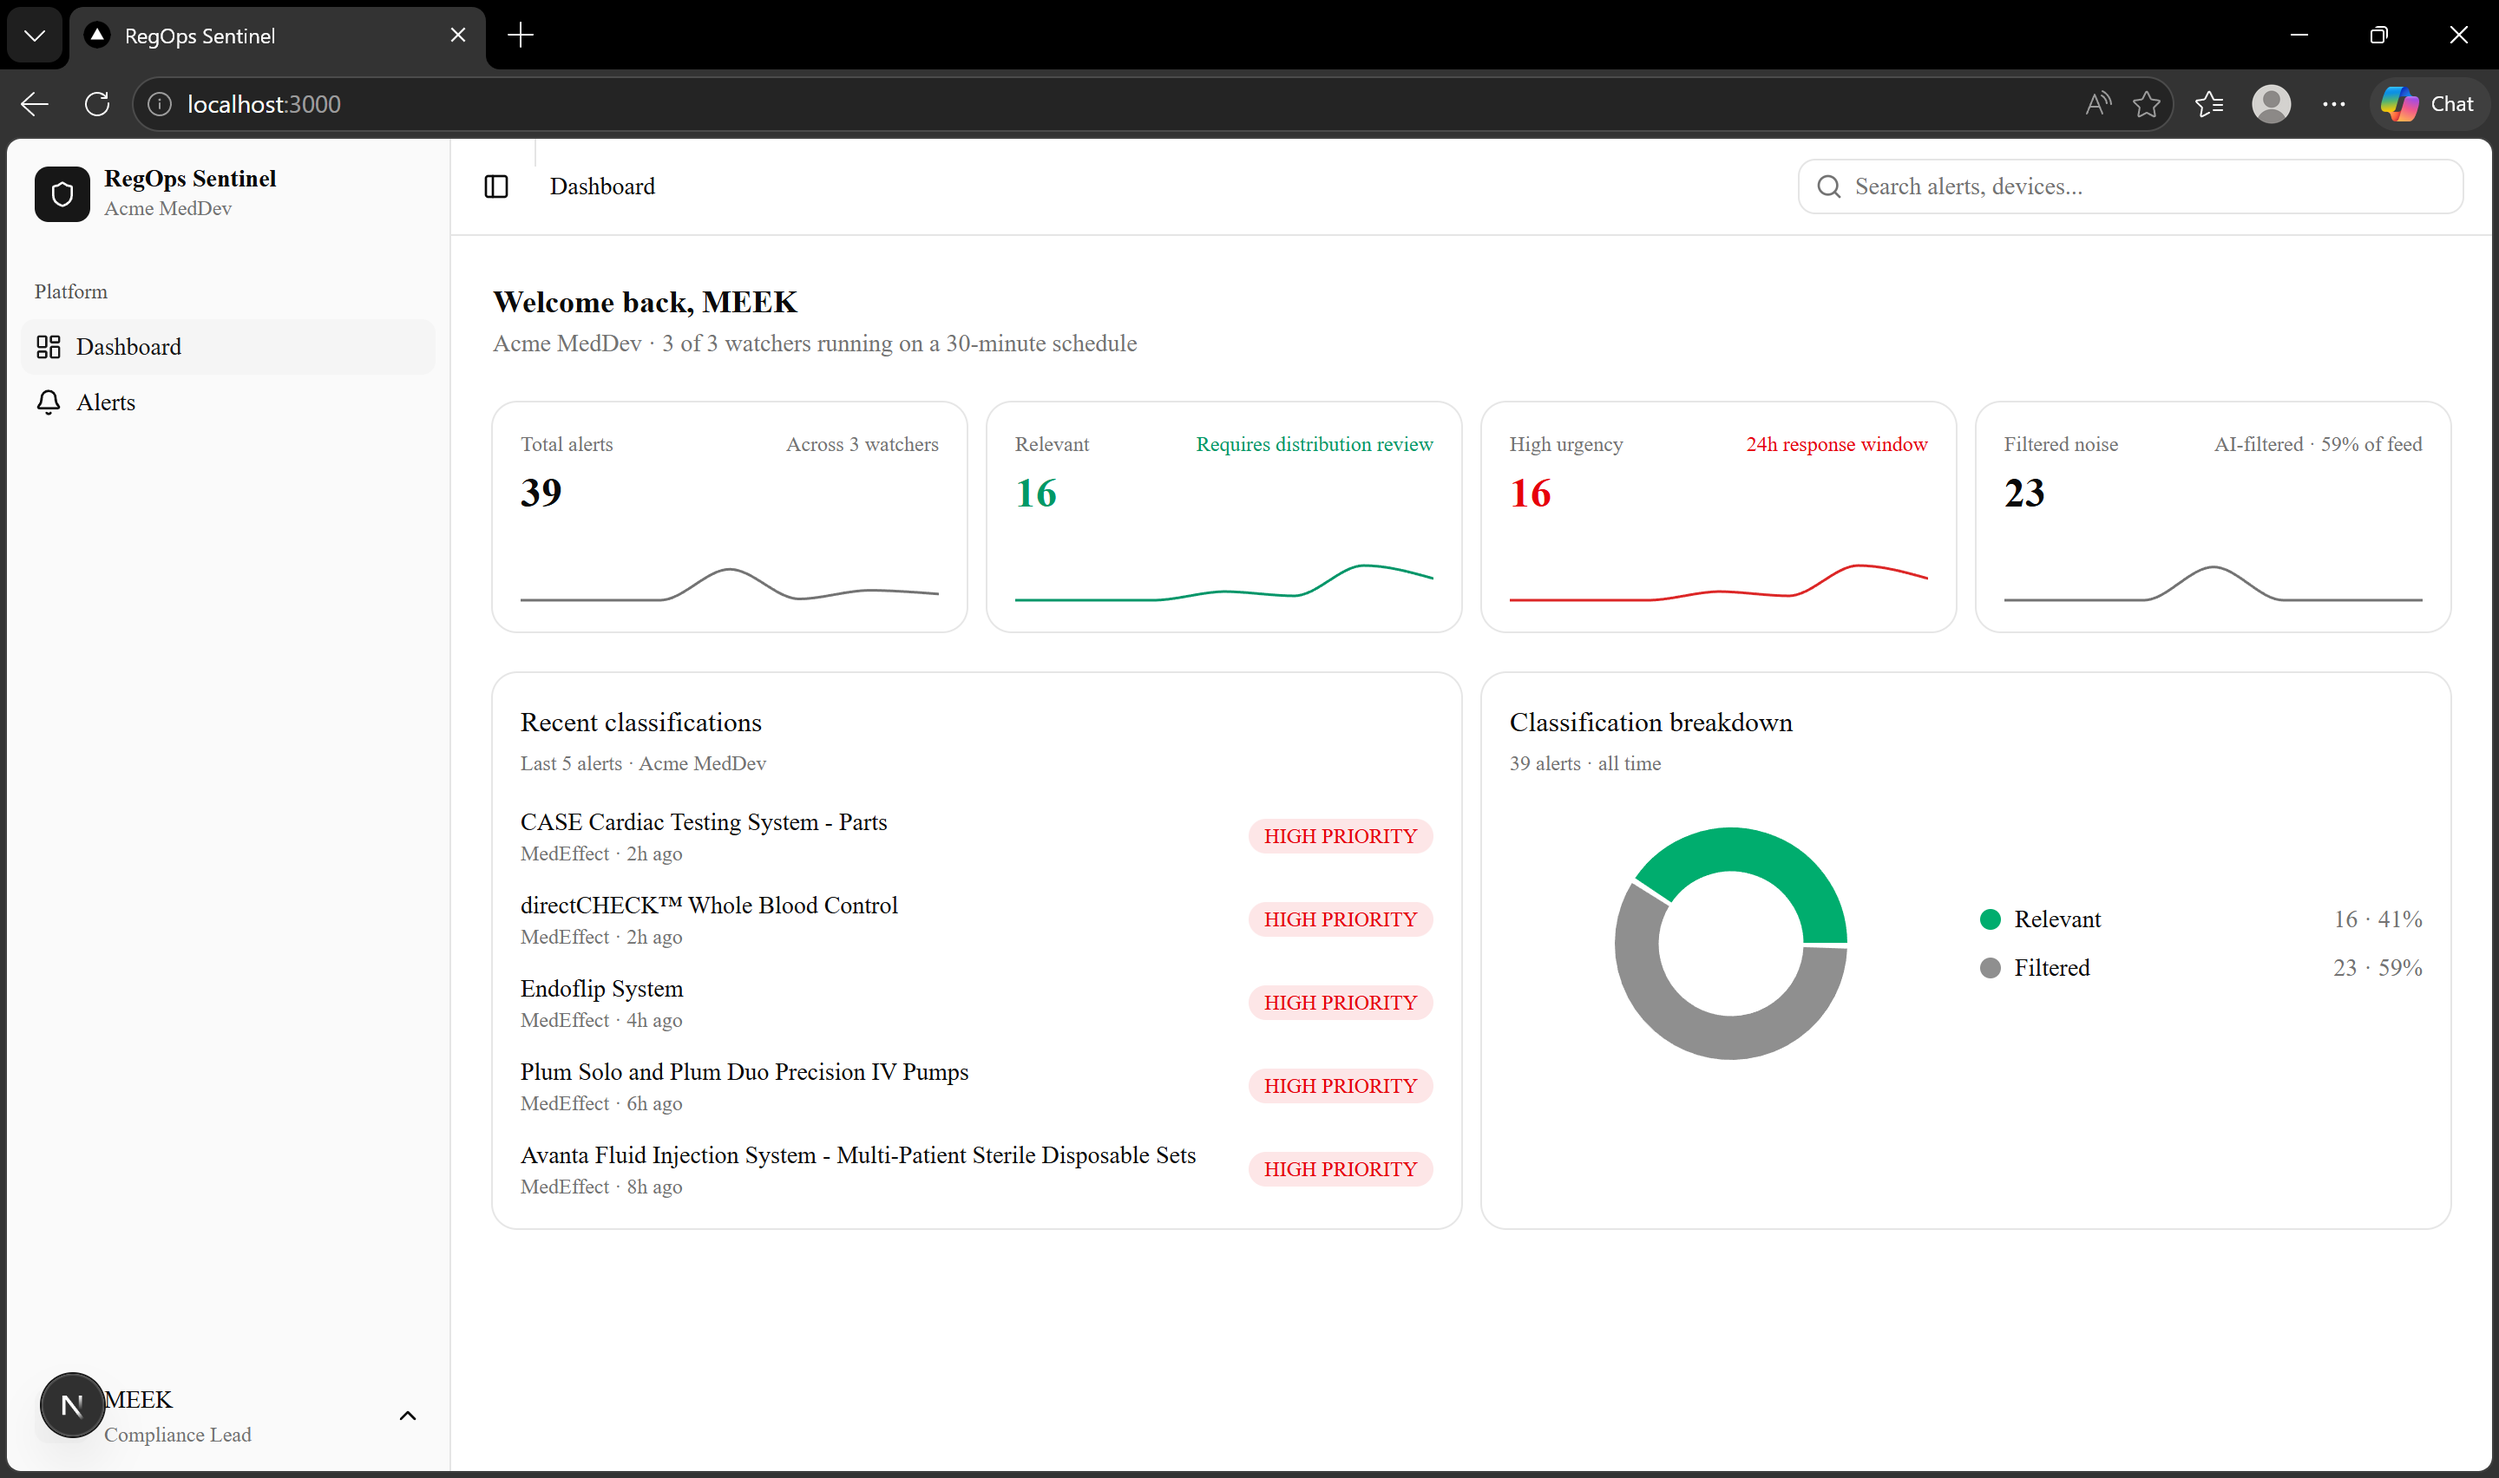
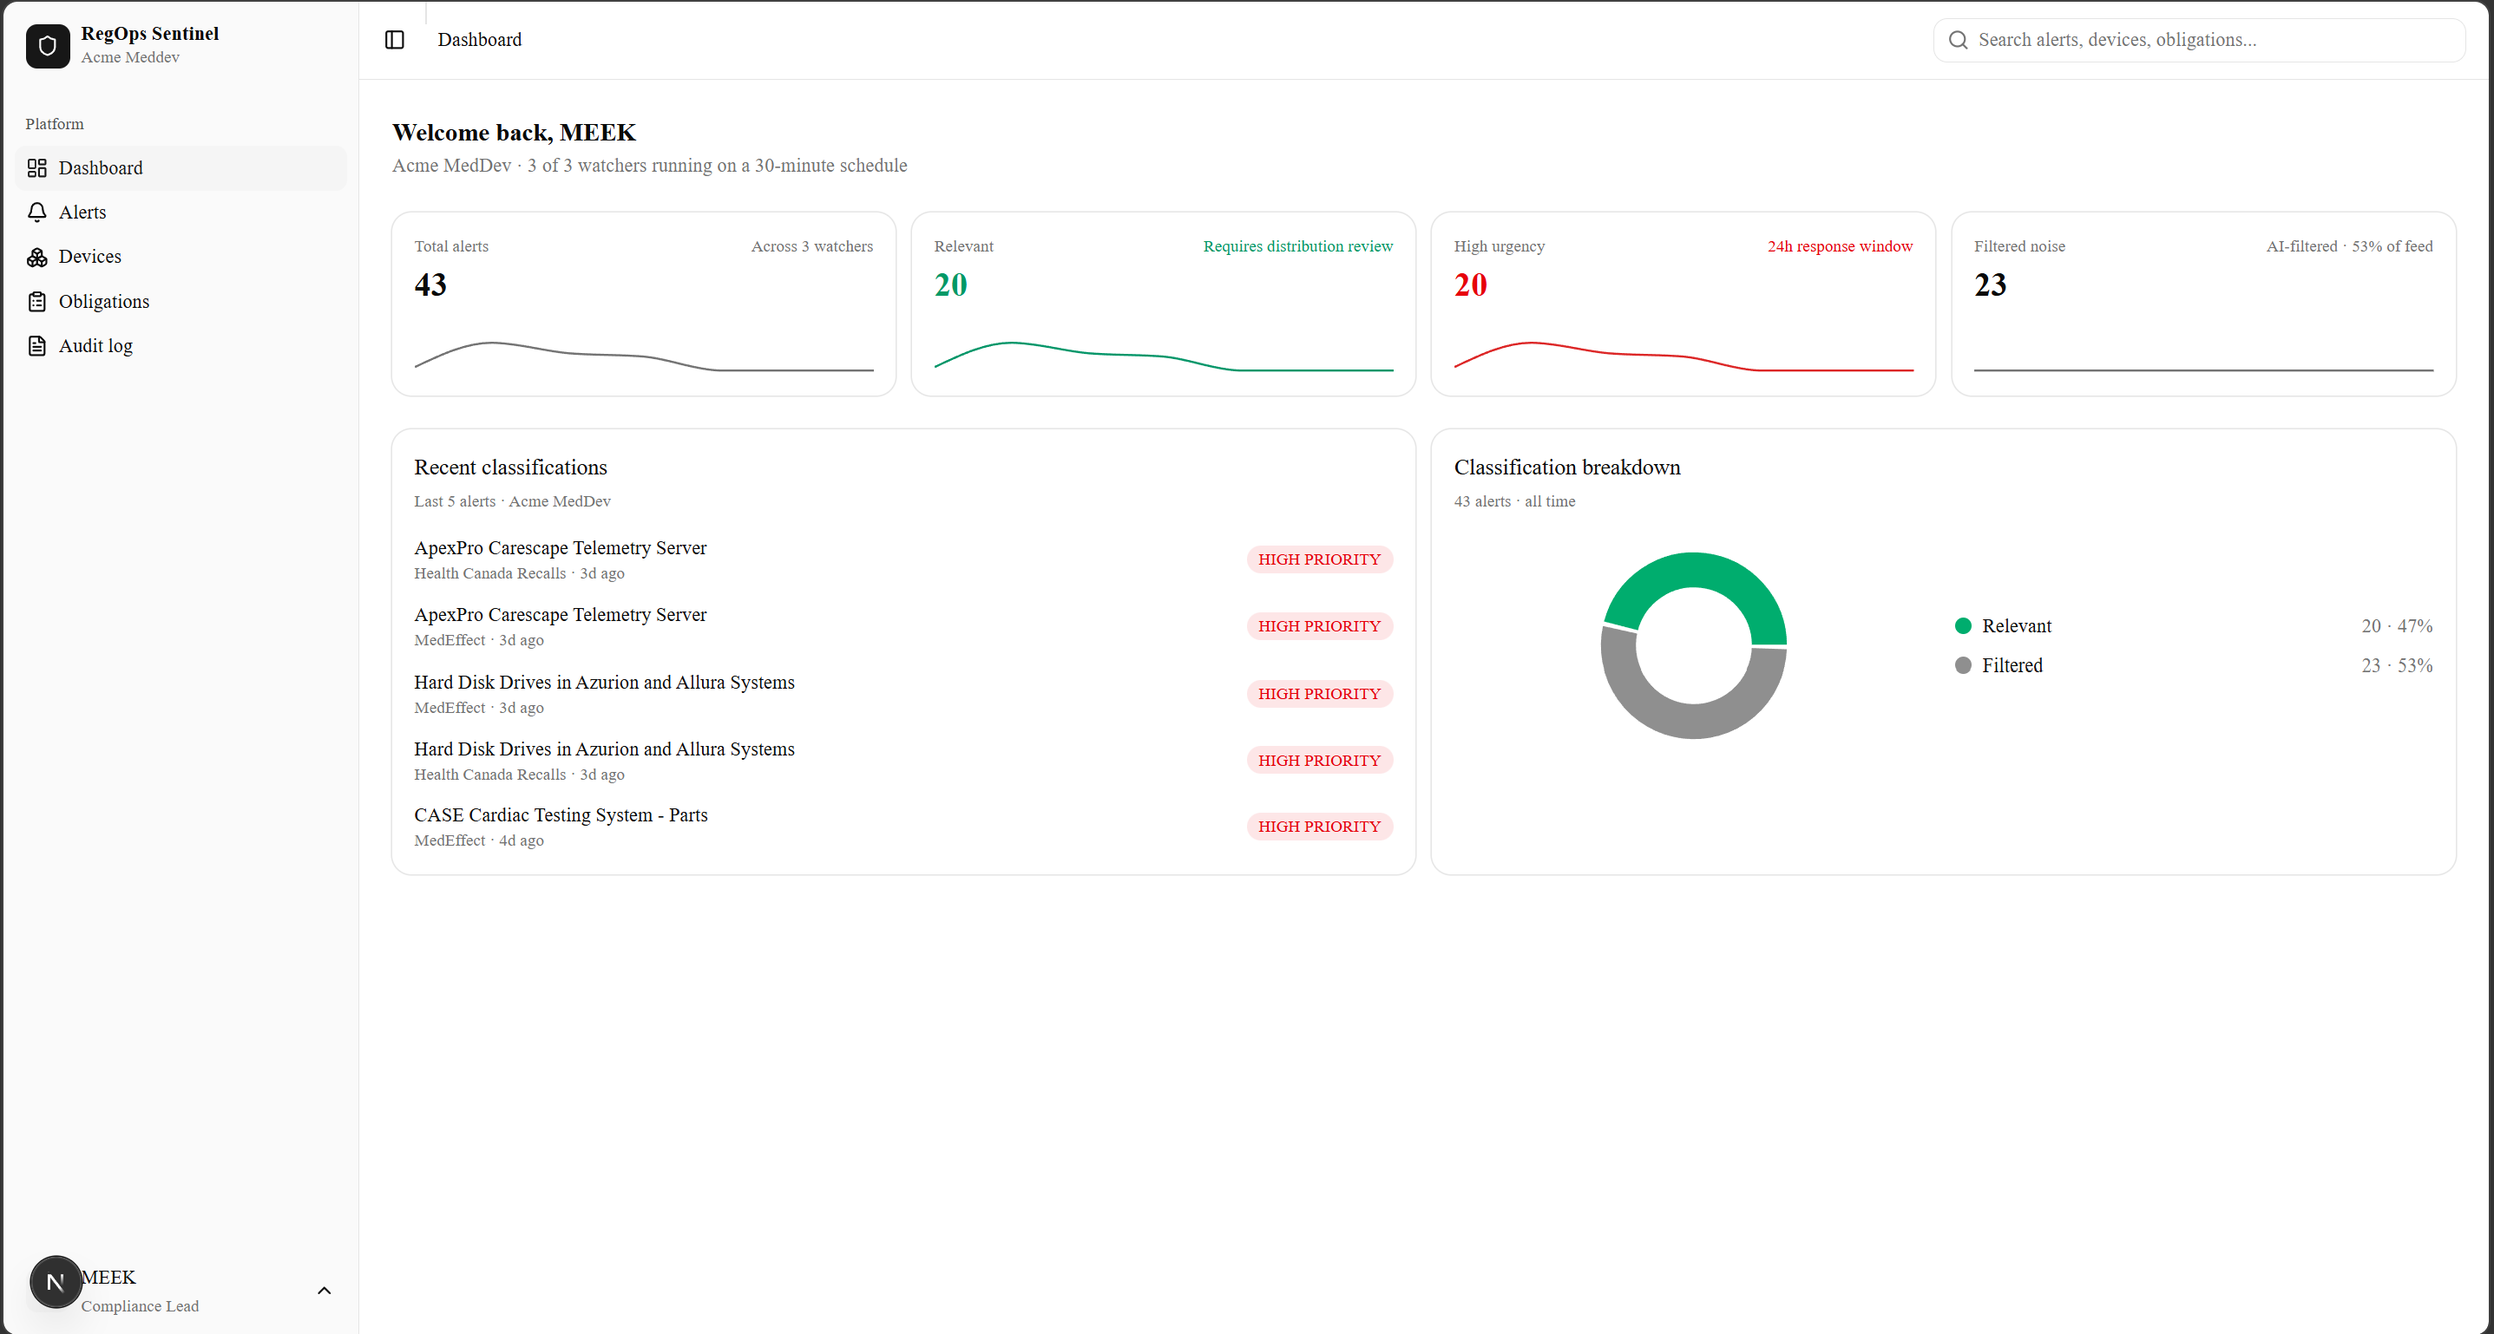
docs: drop screenshot manifest, mark obligations/audit-detail done, add Selected screenshots section
- Deleted SCREENSHOTS-MANIFEST.md. Its presence read as 'project was scoped upfront before being built', which is the opposite of the iterative-build story this repo actually tells.
- Removed all 'manifest' / '50 of 50' / 'capture plan' references from the README.
- Phase 5C.2 (Obligations create/edit UI) moved from Pending to Complete - the CRUD flow has been shipped.
- Removed the Obligations and Audit-log-detail bullets from 'What's not done' - both are now built.
- Repo structure section: dropped the SCREENSHOTS-MANIFEST.md line, updated screenshots/ description, updated docs/architecture/ description (no longer a placeholder).
- Replaced the older dashboard screenshot (file already updated locally with the finished product view: dashboard + 4 KPI cards + recent classifications + classification breakdown chart, on the complete app with alerts/devices/obligations/audit-log all wired).
- New 'Selected screenshots' section before the phase table - 8 curated highlights (dashboard, alert detail, obligations CRUD, tenant isolation, S3 audit, X-Ray service map, end-to-end recall flow, weekly digest email).

diff --git a/README.md b/README.md
@@ -6,7 +6,7 @@
 
 A regulatory intelligence platform for Canadian medical device distributors. Continuously watches Health Canada signals (recalls, drug shortages, MedEffect adverse events), classifies them with GPT-4o through Azure OpenAI, and delivers tenant-scoped alerts with an immutable audit trail.
 
-**Status:** Built and running end-to-end on AWS. All ten phases through CI/CD auto-deploy are shipped: ingestion, classification, audit log, device catalog, obligations CRUD with audit, full-text search, immutable storage, observability, weekly regulatory digest, and keyless OIDC deploys. The screenshot manifest is at 50 of 50 captures. See the phase table below for what each phase covers.
+**Status:** Built and running end-to-end on AWS. All ten phases through CI/CD auto-deploy are shipped: ingestion, classification, audit log, device catalog, obligations CRUD with audit, full-text search, immutable storage, observability, weekly regulatory digest, and keyless OIDC deploys. See the phase table below for what each phase covers.
 
 ---
 
@@ -185,6 +185,34 @@ GOVERNANCE mode (rather than COMPLIANCE) is the demo-environment choice — it a
 
 Enabling Object Lock on the existing bucket was done via an out-of-band `aws s3api put-object-lock-configuration` call rather than a Terraform-driven change. The reason: HashiCorp issue [#36529](https://github.com/hashicorp/terraform-provider-aws/issues/36529) — the AWS Terraform provider's `object_lock_enabled` argument forces bucket replacement on existing buckets, even though AWS itself supports in-place enablement via the API since November 2023. The Terraform resource for retention rules (`aws_s3_bucket_object_lock_configuration.audit`) manages the retention policy from this point forward, paired with a `lifecycle { ignore_changes = [object_lock_configuration] }` block on the bucket to prevent drift.
 
+## Selected screenshots
+
+Curated highlights from the build. The dashboard, the AI classification flow, multi-tenant isolation proof, immutable audit storage, observability, end-to-end recall lifecycle, and the weekly digest email.
+
+**Dashboard.** Real classifications from Health Canada feeds, urgency tiers, AI-filtered noise percentage.
+![Dashboard](screenshots/31-app-window-dashboard.png)
+
+**Alert detail.** The classification UX flow from list to detail page.
+![Alert detail](screenshots/33-app-window-alert-detail.png)
+
+**Obligations tracker.** Full create / edit / complete / delete on tenant-scoped regulatory obligations.
+![Obligations tracker](screenshots/34-app-window-obligation-tracker.png)
+
+**Tenant isolation.** Two users on the same brain, distinct tenants, distinct datasets. Cross-tenant queries return 404 because object existence is itself a tenant boundary.
+![Tenant isolation](screenshots/37-tenant-isolation-proof.png)
+
+**Immutable audit storage.** Audit blobs in S3 under tenant-prefixed paths, Object Lock retention applied, KMS-encrypted, versioned.
+![S3 audit blob](screenshots/27-aws-s3-audit-blob.png)
+
+**X-Ray service map.** OpenTelemetry instrumentation through the ADOT collector sidecar, spans reaching AWS X-Ray end-to-end.
+![X-Ray service map](screenshots/46-xray-service-map.png)
+
+**Health Canada recall lifecycle.** A single signal flowing from feed ingestion to classified alert in the UI.
+![End-to-end flow](screenshots/47-app-end-to-end-flow.png)
+
+**Weekly regulatory digest.** Scheduled Lambda summarizing the week's classifications, delivered through SES.
+![Weekly digest email](screenshots/48-app-weekly-digest-email.png)
+
 ## Phase status
 
 | Phase | Status |
@@ -199,15 +227,13 @@ Enabling Object Lock on the existing bucket was done via an out-of-band `aws s3a
 | 5B.2-A: Device CSV upload backend (async jobs) | Complete |
 | 5B.2-B: Device CSV upload UI (preview + progress + tab-resume) | Complete |
 | 5C: Obligations tracker + cross-table tsvector search | Complete |
-| 5C.2: Obligations create/edit UI | Pending |
+| 5C.2: Obligations create/edit UI | Complete |
 | 5D: Audit bucket hardening (Object Lock + immutability proof) | Complete |
 | 6A: CloudWatch dashboard + alarms + SNS topic (10 alarms, 6 metric, 4 composite) | Complete |
 | 6B: X-Ray distributed tracing (OpenTelemetry + ADOT collector + AwsXRayIdGenerator + BatchSpanProcessor) | Complete |
 | 7: End-to-End Demo - weekly regulatory digest email (EventBridge -> Lambda -> RDS -> SES) | Complete |
 | 8: Repo and CI/CD (GitHub Actions workflows for brain, window, terraform) | Complete |
 | 9: GitHub Actions OIDC keyless auto-deploy on push to main (no long-lived AWS credentials) | Complete |
-
-Each phase has a defined screenshot manifest entry. See [SCREENSHOTS-MANIFEST.md](SCREENSHOTS-MANIFEST.md). Capture status: 50 of 50.
 
 ## What's not done
 
@@ -216,7 +242,6 @@ Being honest about scope rather than hiding the gaps:
 - **Obligations create/edit UI** (`5C.2`). Currently the obligations tracker is read-only — you can browse the seeded set but not add or update from the UI. The backend is also read-only on this domain.
 - **Email and Slack notifications** for overdue obligations. No outbound channel; users have to look at the dashboard to know.
 - **Multi-tenant onboarding flow.** Two tenants (`tenant-acme-meddev` and `tenant-meditech-on`) are seeded directly into the database; a third would still need a Terraform change and manual Cognito user creation. No self-serve sign-up. Also: the SQS worker hardcodes `tenant_id = DEFAULT_TENANT` on writes (read-side tenant scoping is fully enforced from the JWT, but write-side multi-tenant routing is a known gap).
-- **Audit log detail page.** You can list audit events but clicking through to a single event's JSON payload is not wired (the Brain endpoint exists; the UI page isn't built).
 - **Bulk actions, filters, exports.** The tables paginate but don't filter, sort beyond default, or export to CSV/PDF.
 
 The list above is what a hiring manager should expect to see absent. It is not an exhaustive future roadmap — a real productionization would also need billing, support docs, user management, RBAC, audit-log retention tuning per customer, and a dozen other things that aren't on this project's scope.
@@ -251,7 +276,6 @@ Each is a focused writeup in `docs/troubleshooting/`:
 ```
 .
 |-- README.md                          (this file)
-|-- SCREENSHOTS-MANIFEST.md            50-screenshot capture plan (38 captured)
 |-- app/
 |   |-- brain/                         FastAPI Brain service
 |   |   |-- Dockerfile
@@ -279,10 +303,10 @@ Each is a focused writeup in `docs/troubleshooting/`:
 |-- apply-*.ps1                        phase-by-phase patch scripts
 |-- deploy-audit-endpoint.ps1          brain deploy pipeline
 |-- docs/
-|   |-- architecture/                  (placeholder for Phase 8 diagrams)
+|   |-- architecture/                  system overview SVG diagram
 |   |-- runbooks/                      (placeholder for ops runbooks)
 |   +-- troubleshooting/               numbered writeups (04, 05, 06, 07)
-|-- screenshots/                       38 of 50 captured
+|-- screenshots/                       captured during build
 +-- terraform/
     +-- environments/
         +-- dev/                       all dev infrastructure
